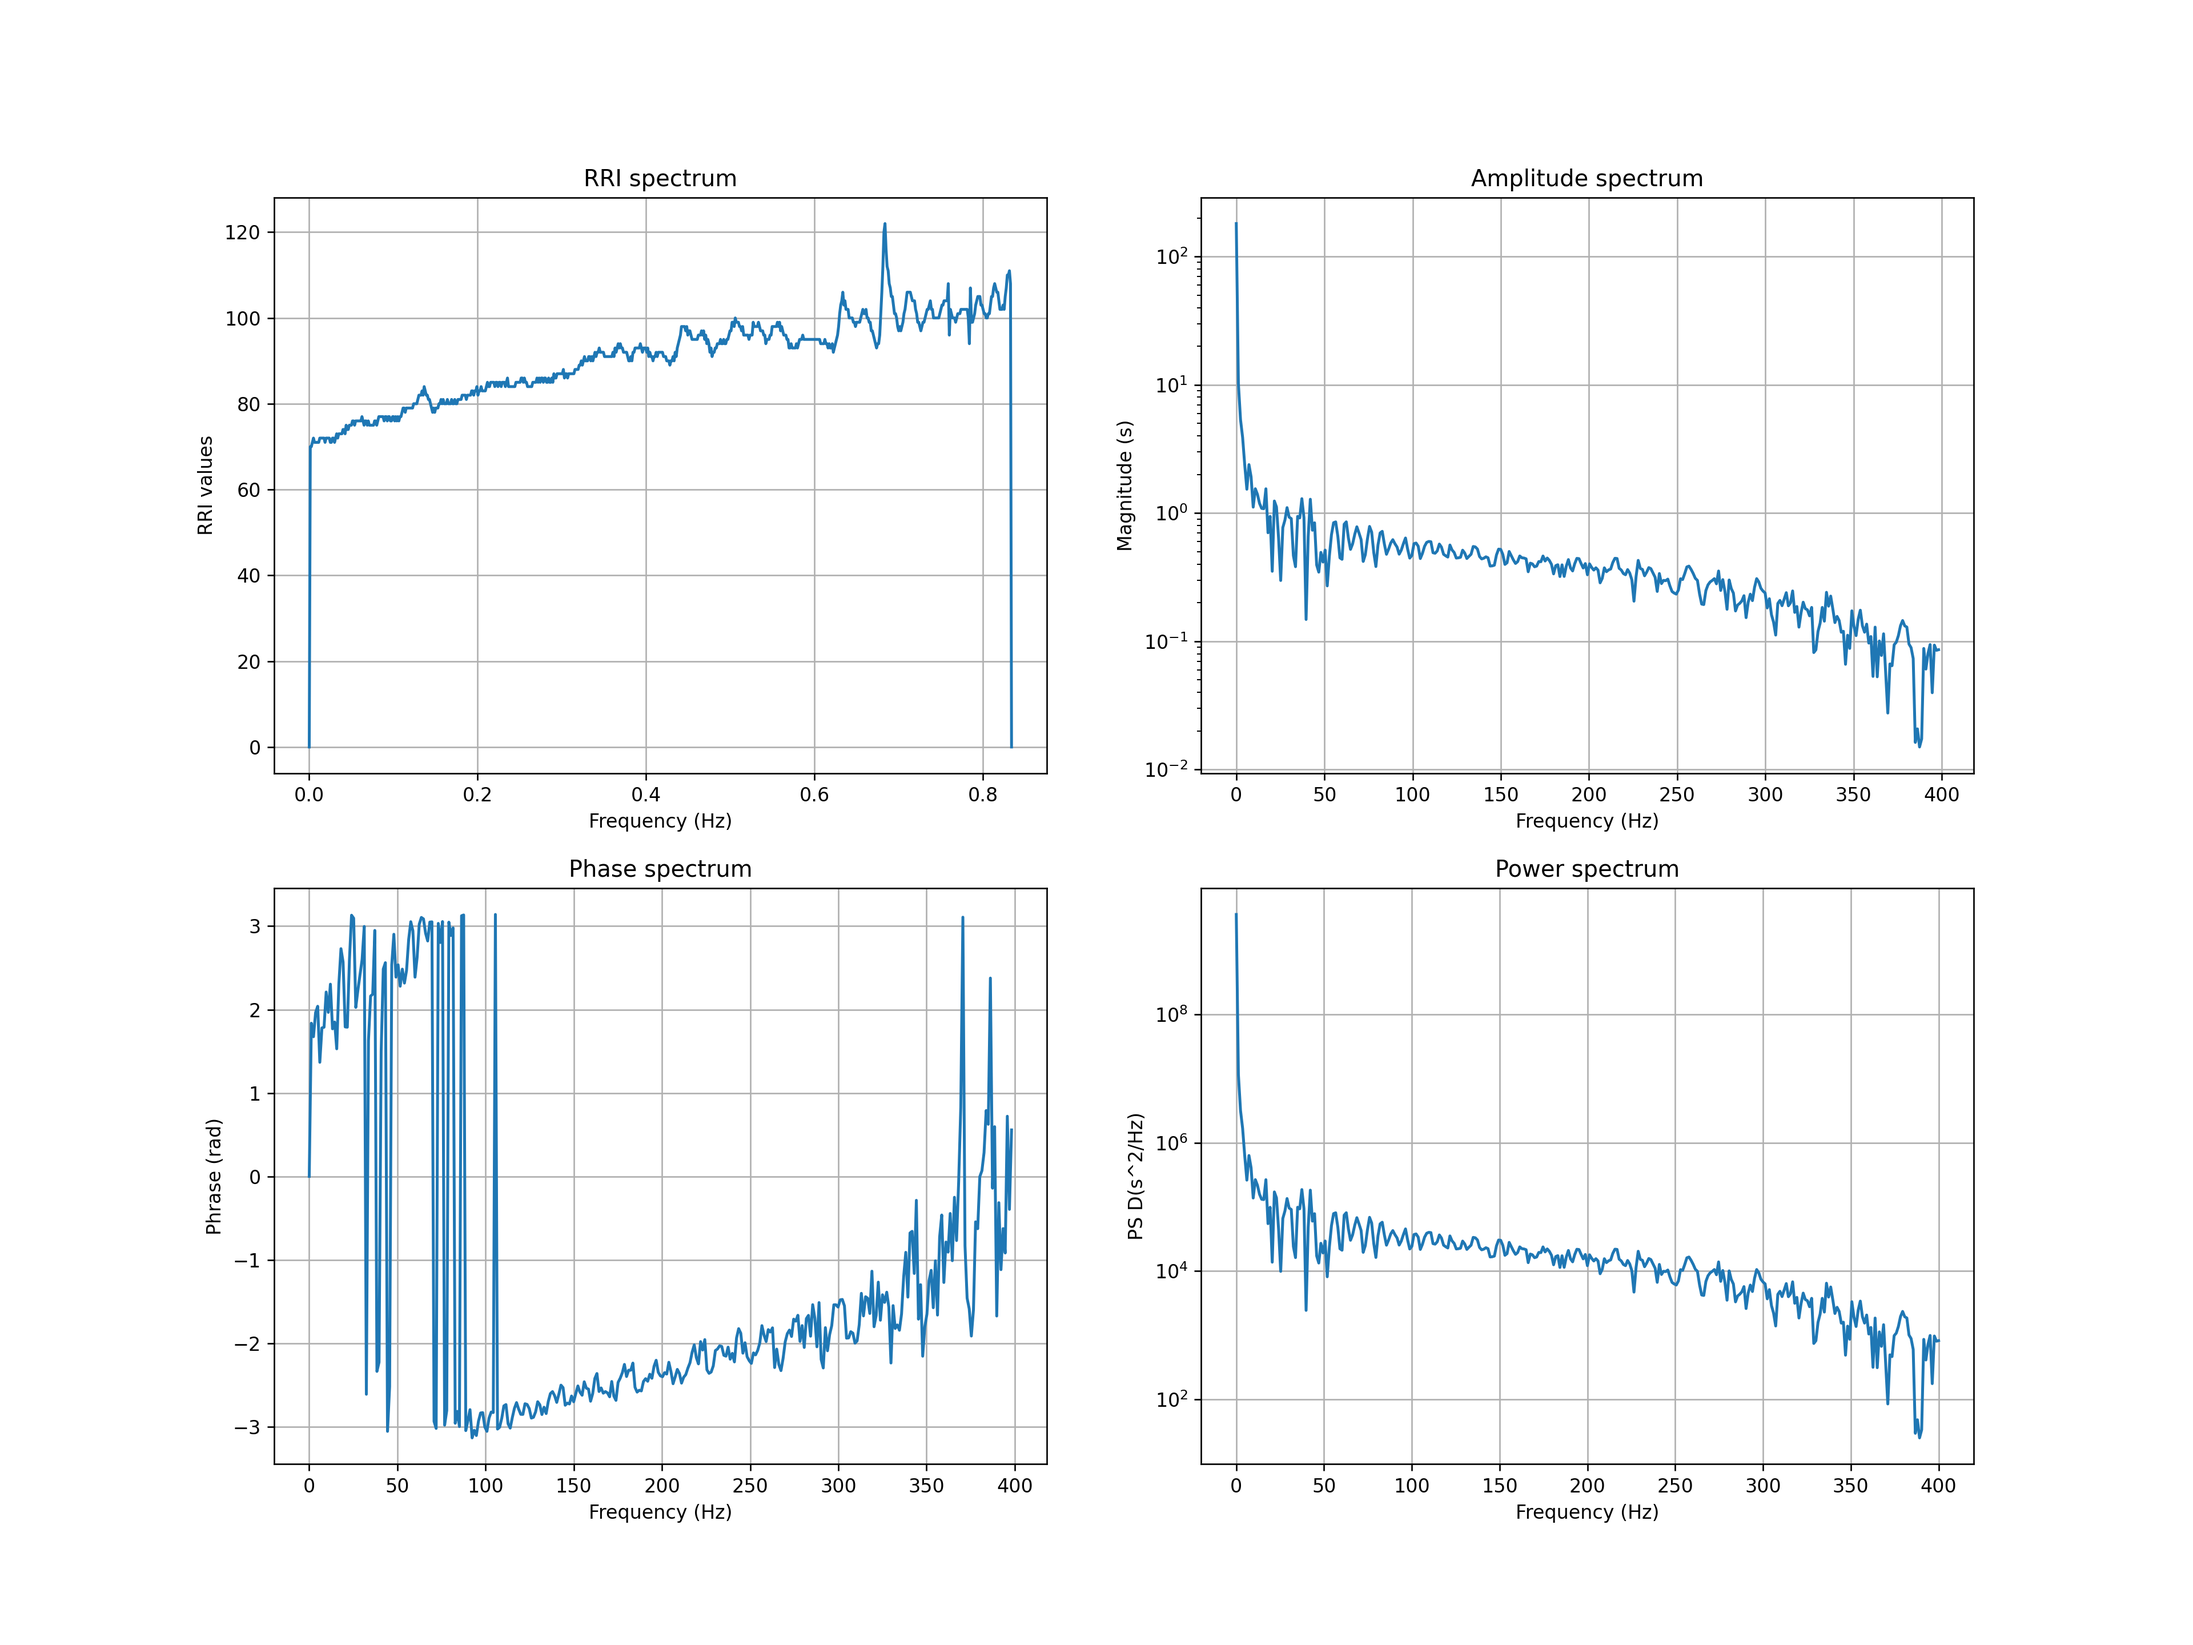
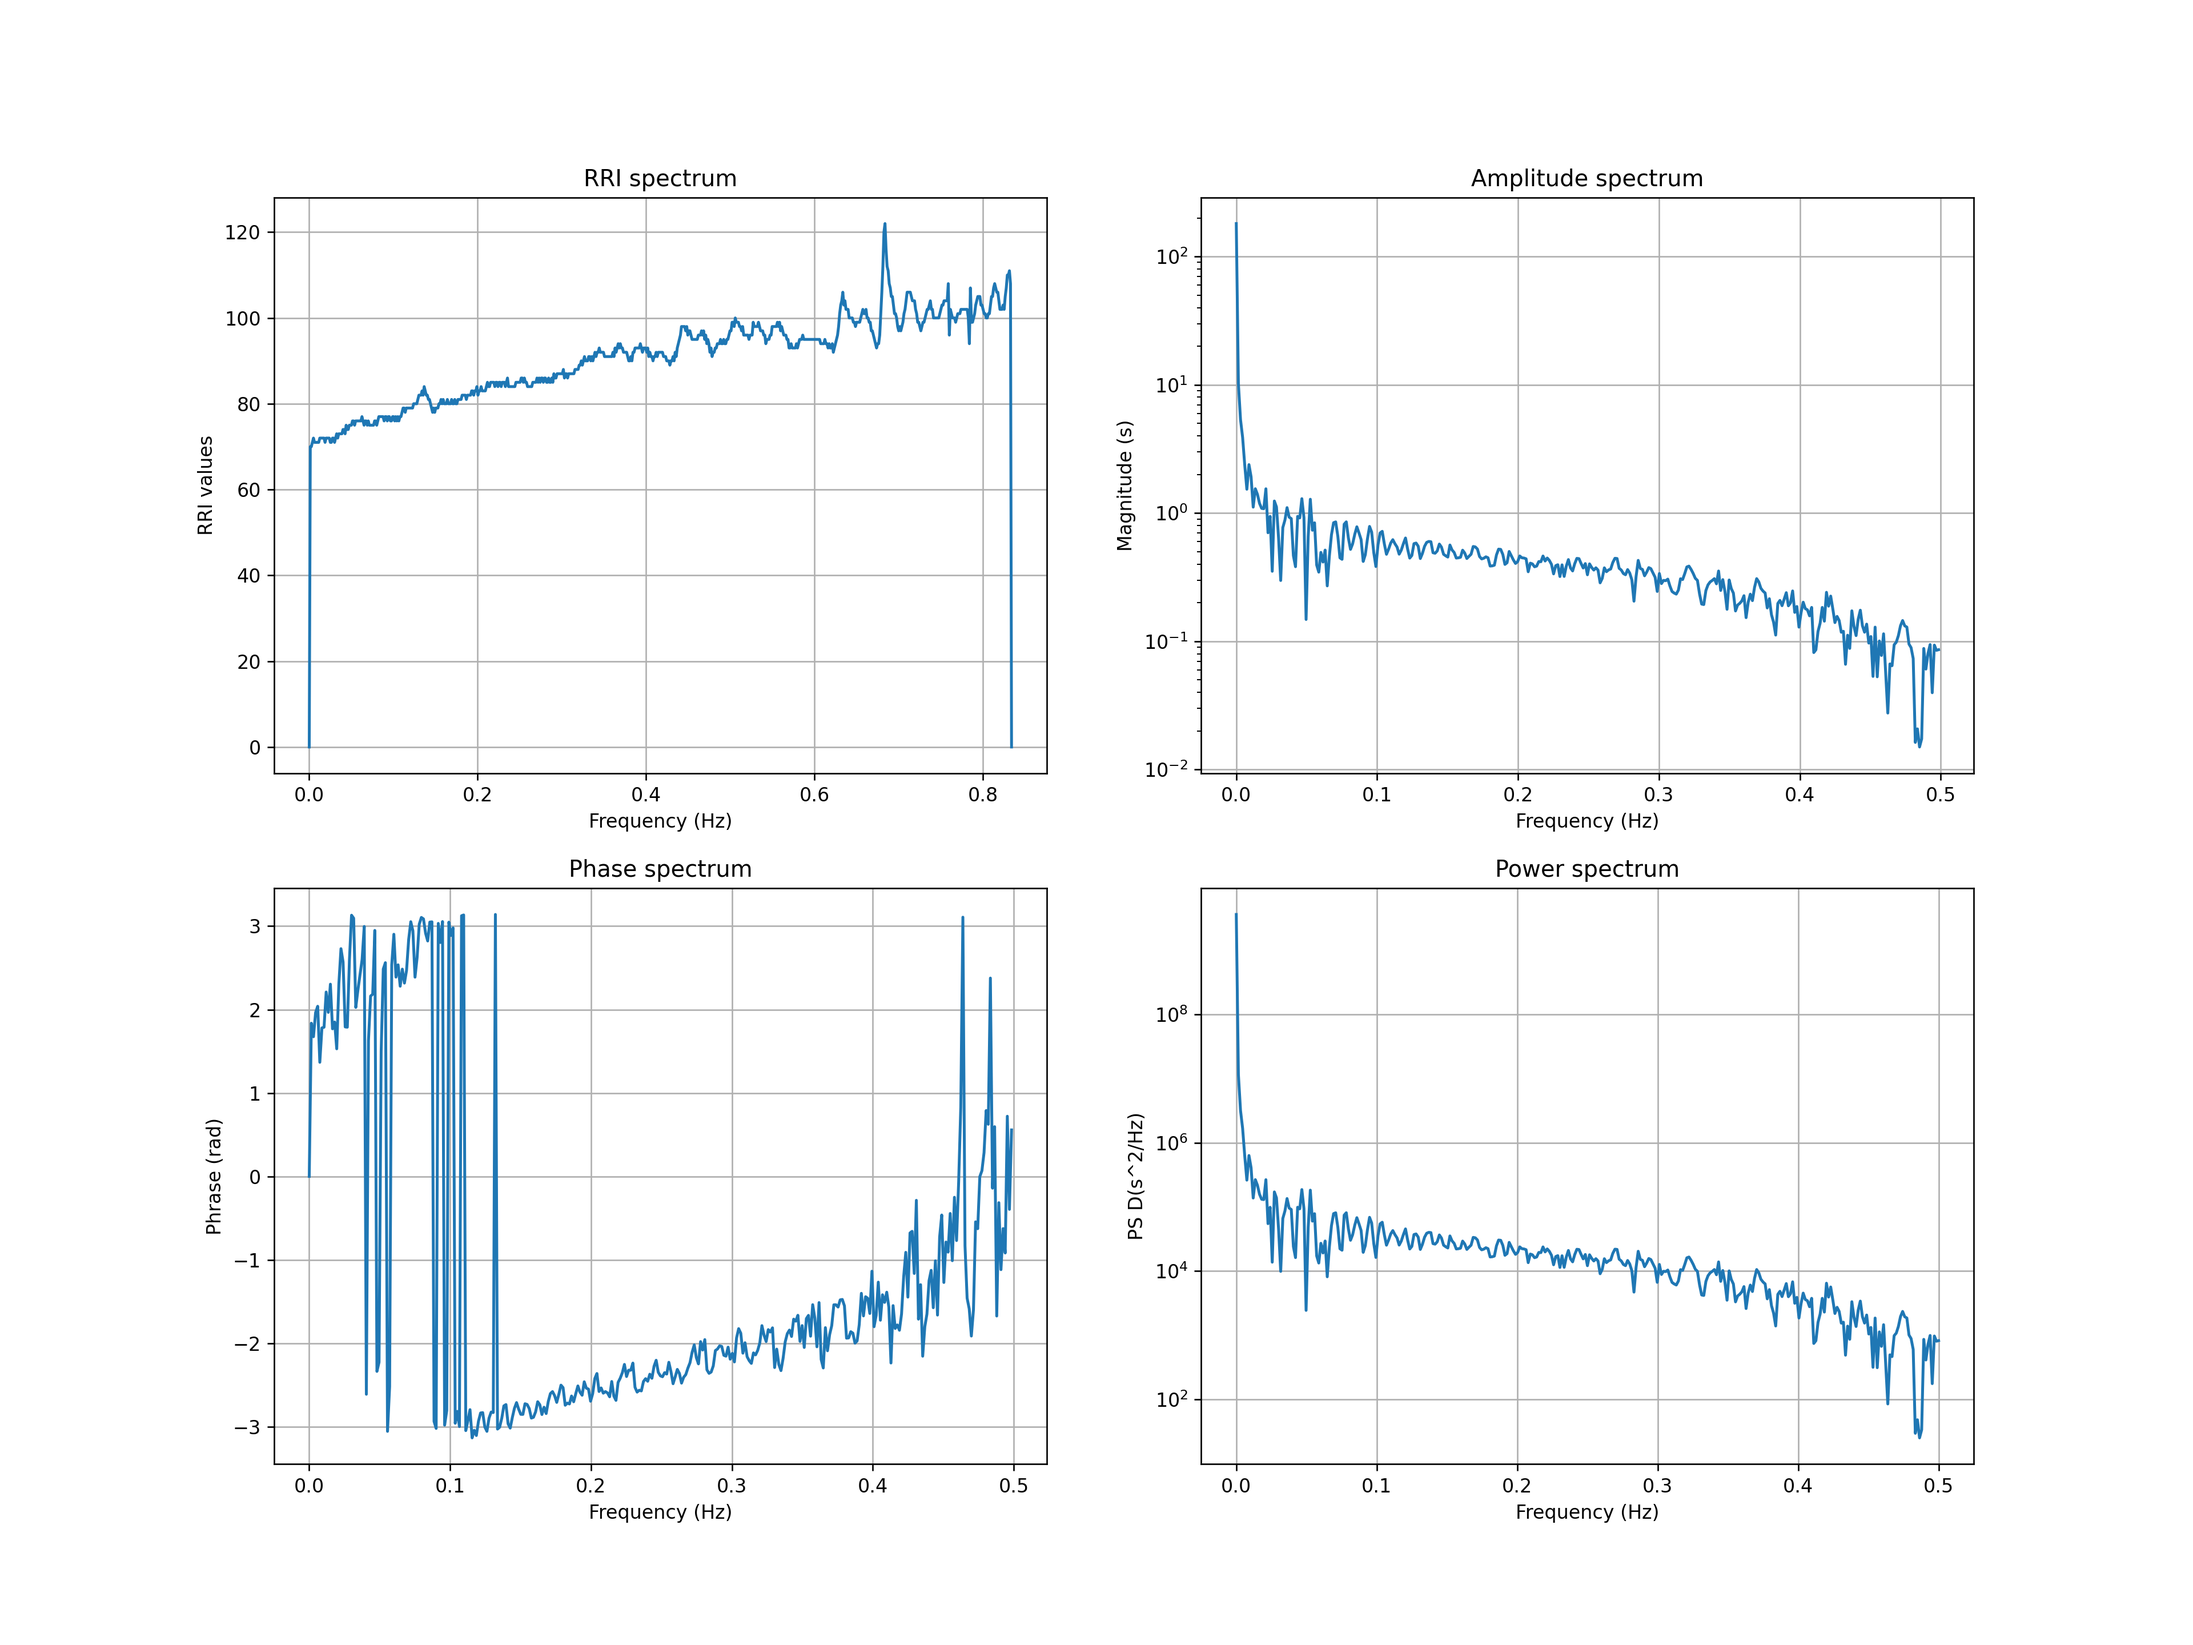
add the aio and some png

Changed region(s): [[0.375, 0.875, 0.4062, 0.9062]]

diff --git a/src/code/4 Build index to HR/Build_index_to_HR_All_in_one.py b/src/code/4 Build index to HR/Build_index_to_HR_All_in_one.py
@@ -1,6 +1,7 @@
 # %%
 import os
 from pprint import pprint
+import numpy as np
 import pandas as pd
 from PKG import FileCenter, get_ppi
 from rich import print
@@ -21,43 +22,6 @@ def Cal_HR(inputList: list) -> list:
         tranHRPart := 60.0 * 200.0 / (inputList[index + 1] - val)
         for index, val in enumerate(inputList) if index + 1 < inputListSize
     ]
-
-
-def save_to_png(folderPath: str,
-                titleStr: str,
-                data: pd.DataFrame,
-                xLabel: str = None,
-                yLabel: str = None,
-                dpi: int = 100) -> None:
-    """_summary_
-        Save DataFrame to png function
-    Args:
-        folderPath (str): about save picture folder path 
-        titleStr (str): about the picture title 
-        data (pd.DataFrame): about the data about the picture
-        xLabel (str, optional): set x Label Name Defaults to None.
-        yLabel (str, optional): set y Label Name Defaults to None.
-        dpi (int, optional): about the picture quality Defaults to 100.
-    """
-
-    plt.clf()
-
-    data.plot(legend=True)
-    titleStr = titleStr.capitalize()
-    plt.title(titleStr)
-
-    # fileName = titleStr + '_diff.png'
-    saveFilePath = os.path.join(folderPath, f"{titleStr}_diff.png")
-
-    if xLabel is not None:
-        plt.xlabel(xLabel)
-
-    if yLabel is not None:
-        plt.ylabel(yLabel)
-
-    plt.savefig(saveFilePath, dpi=dpi)
-    plt.clf()
-    plt.close()
 
 
 # input file center
@@ -102,7 +66,8 @@ for name in names:
     packIndexToHRAndOri = tuple(
         zip(hrFileListDataStateList, hrFileListData, indexFileListDataToHR))
 
-    dataSaveDic = dict()
+    # dataSaveDic = dict()
+    dataSaveDic = []
     for state, hrOri, indexToHR in packIndexToHRAndOri:
 
         dictTmp = pd.DataFrame({
@@ -110,35 +75,42 @@ for name in names:
             "index to HR": pd.Series(indexToHR)
         })
         # print(dictTmp)
-        dataSaveDic.update({state: dictTmp})
+        dataSaveDic.append((state, dictTmp))
 
-    print(len(dataSaveDic))
+    # print(len(dataSaveDic))
 
-    print(dataSaveDic)
+    # print(dataSaveDic)
 
     nameSaveFolderPath = os.path.join(saveFolderPath, name)
 
     if not os.path.exists(nameSaveFolderPath):
         os.mkdir(nameSaveFolderPath)
 
-    for state, pdDf in dataSaveDic.items():
-        nameSaveFolderPathBranch = os.path.join(nameSaveFolderPath, state)
+    #make all in one
+    # plt.clf()
+    plt.figure(figsize=(16, 12))
+    colNumber = 2 if len(dataSaveDic) <= 6 else 3
 
-        if not os.path.exists(nameSaveFolderPathBranch):  # make the folder
-            os.mkdir(nameSaveFolderPathBranch)
+    for index, val in enumerate(dataSaveDic):
+        state, pdDf = val
+        y, x = index // 3, index % 3
+        colName = list(pdDf.columns)
 
-        # save the picture
-        save_to_png(folderPath=nameSaveFolderPathBranch,
-                    titleStr=state,
-                    xLabel='time (s)',
-                    yLabel='HR Value',
-                    data=pdDf,
-                    dpi=dpi)
+        xScale = np.linspace(0, len(pdDf[colName[0]].tolist()),
+                             len(pdDf[colName[0]].tolist()))
+        plt.subplot(colNumber, 3, index + 1)
+        plt.plot(xScale, pdDf[colName[0]].tolist(), label=colName[0])
+        plt.plot(xScale, pdDf[colName[1]].tolist(), label=colName[1])
 
-        # save to CSV file
-        fileNamePath = os.path.join(nameSaveFolderPathBranch,
-                                    f"{state.capitalize()}_diff.csv")
+        plt.title(state)
+        plt.xlabel('time (s)')
+        plt.ylabel('HR Value')
+        plt.grid()
+        plt.legend()
 
-        pdDf.to_csv(fileNamePath, index=False)
+    savePath = os.path.join(nameSaveFolderPath,
+                            f'{name}_Index_HR_DIFF_AIO.png')
+    plt.tight_layout()
+    plt.savefig(savePath, dpi=dpi)
 
-# %%
+    # print(index, state, pdDf)

diff --git a/src/code/7 RRI Frequency response and Power spectrum/test3.py b/src/code/7 RRI Frequency response and Power spectrum/test3.py
@@ -1,7 +1,7 @@
 import ctypes
 from matplotlib import pyplot as plt
 import numpy as np
-from numpy.fft import fft, fftfreq
+from numpy.fft import fft  # , fftfreq
 from RR_Class import RRClass
 
 
@@ -36,13 +36,13 @@ yf = fft(y)  # to normalize use norm='ortho' as an additional argument
 print('length of yf = ', len(yf))
 
 # Where is a 200 Hz frequency in the results?
-freq = fftfreq(x.size, d=T)
-index, = np.where(np.isclose(freq, 200, atol=1 / (T * N)))
-print(f'length of frequency[N/2] = {len(freq[0:N // 2])}')
+freq = np.linspace(0.0, 0.5, N // 2)  # fftfreq(x.size, d=T)
+# index, = np.where(np.isclose(freq, 200, atol=1 / (T * N)))
+# print(f'length of frequency[N/2] = {len(freq[0:N // 2])}')
 # Get magnitude and phase
-magnitude = np.abs(yf[index[0]])
-phase = np.angle(yf[index[0]])
-print("Magnitude:", magnitude, ", phase:", phase)
+# magnitude = np.abs(yf[index[0]])
+# phase = np.angle(yf[index[0]])
+# print("Magnitude:", magnitude, ", phase:", phase)
 
 # Plot a spectrum
 plt.figure(figsize=(16, 12))
@@ -61,7 +61,7 @@ xMag = np.abs(yf[0:N // 2]) / N
 xMagPlot = 2 * xMag[0:int(N / 2 + 1)]
 xMagPlot[0] = xMagPlot[0] / 2
 plt.subplot(2, 2, 2)
-plt.semilogy(freq[0:N // 2], xMagPlot)
+plt.semilogy(freq, xMagPlot)
 # plt.semilogy(freq[0:N // 2], 2 / N * np.abs(yf[0:N // 2]))
 plt.title('Amplitude spectrum')
 plt.xlabel('Frequency (Hz)')
@@ -70,7 +70,7 @@ plt.grid()
 
 # Phase spectrum
 plt.subplot(2, 2, 3)
-plt.plot(freq[0:N // 2], np.angle(yf[0:N // 2]))
+plt.plot(freq, np.angle(yf[0:N // 2]))
 # plt.semilogy(freq[0:N // 2], np.angle(yf[0:N // 2]))
 plt.title('Phase spectrum')
 plt.xlabel('Frequency (Hz)')

diff --git a/src/code/7 RRI Frequency response and Power spectrum/PJ_FFT_Algor.py b/src/code/7 RRI Frequency response and Power spectrum/PJ_FFT_Algor.py
@@ -50,7 +50,7 @@ def Frequency_response_and_Power_spectrum_To_png(dataIn,
     yf = fft(y)
 
     # Where is a 200 Hz frequency in the results?
-    freq = fftfreq(x.size, d=T)
+    freq = np.linspace(0.0, 1.0, N)  # fftfreq(x.size, d=T)
     # Plot a spectrum
     plt.figure(figsize=(16, 12))
 
@@ -81,7 +81,7 @@ def Frequency_response_and_Power_spectrum_To_png(dataIn,
     # Power spectrum
     plt.subplot(2, 2, 4)
     xF = yf[0:N // 2]
-    fr = np.linspace(0, 800 // 2, N // 2)
+    fr = np.linspace(0.0, 0.5, num=len(xF))
     plt.semilogy(fr, abs(xF)**2)
     plt.title('Power spectrum')
     plt.xlabel('Frequency (Hz)')

diff --git a/src/code/8 SV RRI Frequency response and Power spectrum/PJ_FFT_Algor.py b/src/code/8 SV RRI Frequency response and Power spectrum/PJ_FFT_Algor.py
@@ -50,7 +50,7 @@ def Frequency_response_and_Power_spectrum_To_png(dataIn,
     yf = fft(y)
 
     # Where is a 200 Hz frequency in the results?
-    freq = fftfreq(x.size, d=T)
+    freq = np.linspace(0.0, 1.0, N)  # fftfreq(x.size, d=T)
     # Plot a spectrum
     plt.figure(figsize=(16, 12))
 
@@ -81,7 +81,7 @@ def Frequency_response_and_Power_spectrum_To_png(dataIn,
     # Power spectrum
     plt.subplot(2, 2, 4)
     xF = yf[0:N // 2]
-    fr = np.linspace(0, 800 // 2, N // 2)
+    fr = np.linspace(0, 0.5, num=len(xF))
     plt.semilogy(fr, abs(xF)**2)
     plt.title('Power spectrum')
     plt.xlabel('Frequency (Hz)')
